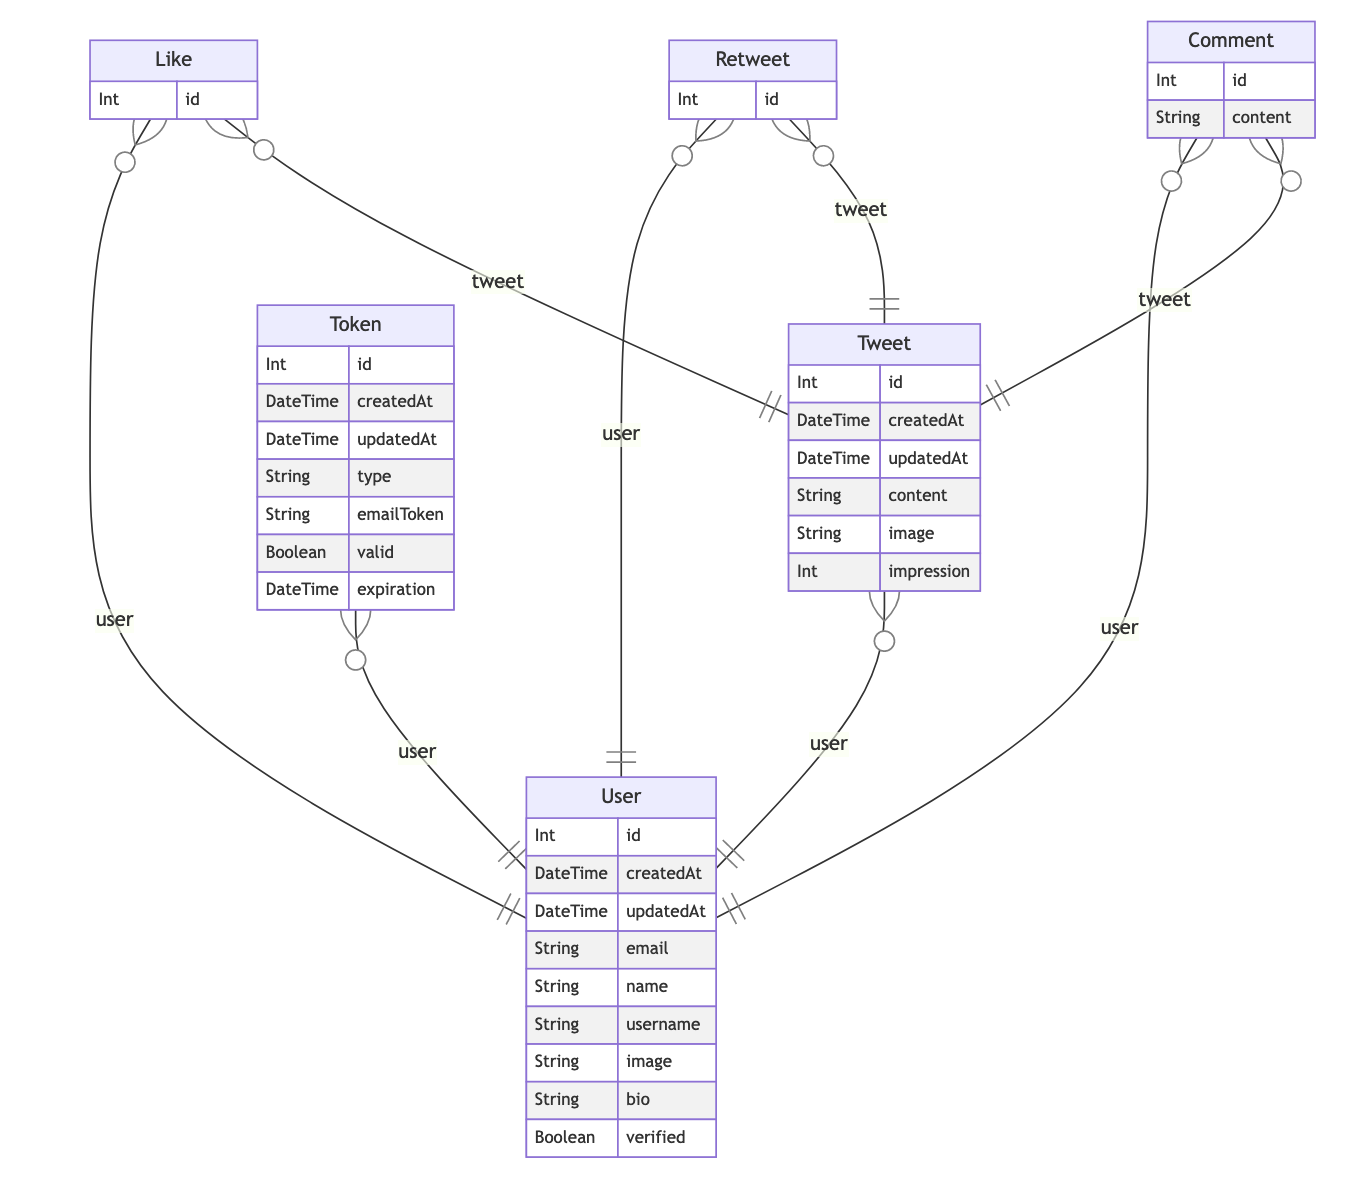
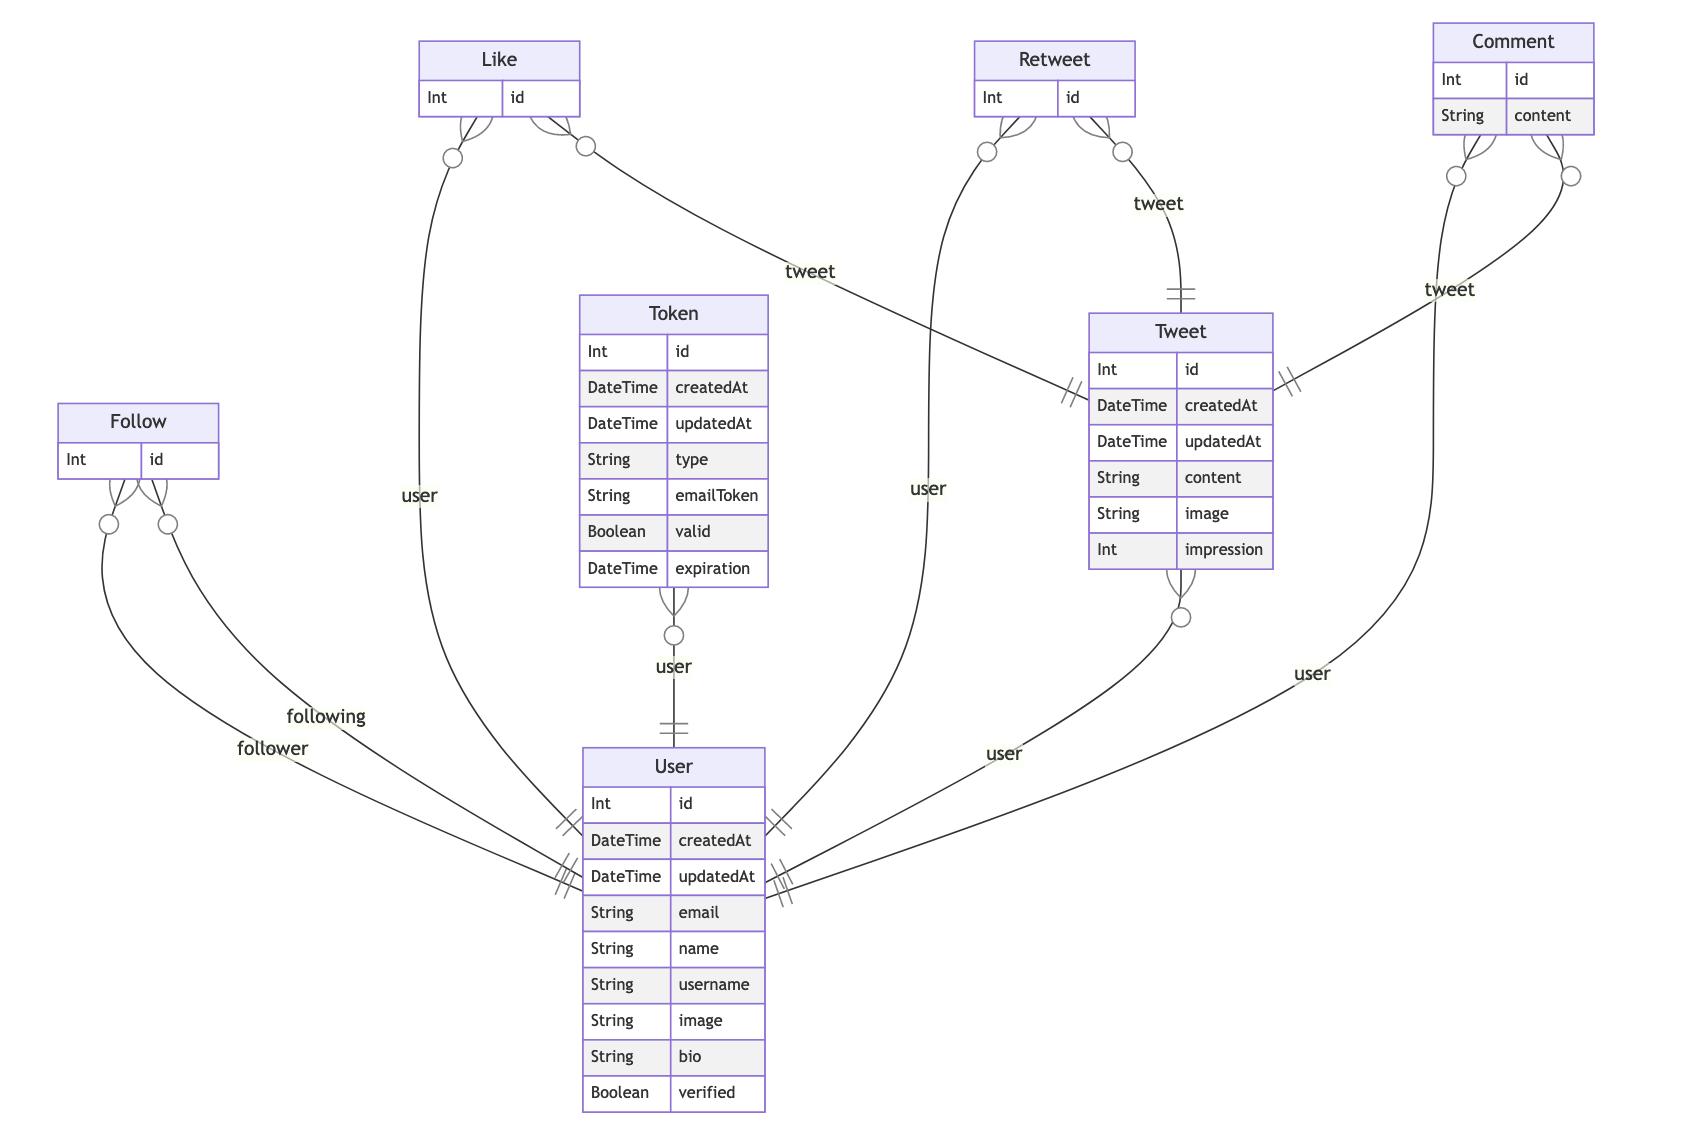
Updated README

diff --git a/README.md b/README.md
@@ -34,6 +34,16 @@ PUT | /users/updateById | Updates any of the fields from bio, name, username tha
 DELETE | /users/:id | Deletes the user that corresponds to the id passed in the request parameters. |
 GET | /users/getByJWT | Returns the entire user object that corresponds to the user-id from the JWT passed from the frontend. User needs to be authenticated to access this route. |
 POST | /users/userFromSearch | Returns a list of users whose name contains the search string passed in the request body. Sorts the list of users in terms of levenshtien distance between the name of the user and the search string, so that it can be displayed in the same order in the frontend.|
+POST | /users/usernameFromSearch | Returns a list of users whose username contains the search string passed in the request body. Sorts the list of users in terms of levenshtien distance between the name of the user and the search string, so that it can be displayed in the same order in the frontend.|
+POST | /users/follow/:id | Allows a user to follow another user. The following user is taken from the JWT and the user to be followed is taken from request params. |
+POST | /users/unfollow/:id | Allows a user to un-follow another user. The following user is taken from the JWT and the user to be unfollowed is taken from request params. |
+POST | /users/isFollowing/:id | Checks if a user is followed by another user. The following user is taken from the JWT and the user who we want to check is being followed or not is taken from request params. |
+GET | /users/followers/length/:id | Returns the number of users who follow a particular user. The ID of the user is taken from the request params. |
+GET | /users/followings/length/:id | Returns the number of users followed by a particular user. The ID of the user is taken from the request params. |
+GET | /users/followers/:id | Returns the list of users who follow a particular user. The ID of the user is taken from the request params. |
+GET | /users/followings/:id | Returns the list of users that a particular user follows. The ID of the user is taken from the request params. |
+GET | /users/followingsTweets/ | Returns the list of tweets tweeted by all the users that a particular user follows. |
+
 
 - Tweet Routes (All the routes require the user to be authenticated) : 
 
@@ -50,6 +60,8 @@ POST | /tweets/getByUser | The userId is passed in the request body and returns 
 POST | /tweets/getLikedByUser | The userId is passed in the request body and returns all the tweets liked by that user. |
 POST | /tweets/getRetweetedByUser | The userId is passed in the request body and returns all the tweets retweeted by that user. |
 POST | /tweets/addComment | The userId, tweetId, comment-content is passed in the request body and adds a comment by that user for that tweet with the given content. |
+GET | /tweets/trending | Fetches all the tweets that contain a particlaur trend(#). The trend is taken as a request parameter. |
+GET | /tweets/trendsFromSearch | Fetches all the tweets where the trends in the tweet contain a particular trend as a substring. The substring-trend is taken as a request parameter. |
 
 - Auth routes : 
 
